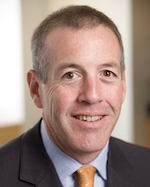
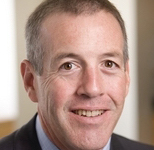
resized and added images for directors

diff --git a/src/data.js b/src/data.js
@@ -26,7 +26,7 @@ const data = {
         },
         {
             "id": 4,
-            "imageUrl": "/img/directors/kathi_westcott.jpg",
+            "imageUrl": "/img/directors/kathi_westcott.png",
             "name": "Kathi Westcott",
             "board_position": "",
             "job": "Senior Counsel, The Pew Charitable Trusts",
@@ -106,7 +106,7 @@ const data = {
         },
         {
             "id": 14,
-            "imageUrl": "/img/directors/jo-ann_wallace.jpg",
+            "imageUrl": "/img/directors/jo-ann_wallace.png",
             "name": "Jo-Ann Wallace",
             "board_position": "",
             "job": "President and CEO, National Legal Aid and Defender Association",

diff --git a/src/components/board/director/Director.js b/src/components/board/director/Director.js
@@ -9,7 +9,10 @@ function Director(props) {
     return(
         <div className="container">
             <h2>{director.name}</h2>
-            <BoardImage/>
+            <BoardImage
+                name={director.name}
+                imageUrl={director.imageUrl}
+            />
             <h4>{director.board_position}</h4>
             <div className="divider"></div>
             <h5>{director.job}</h5>

diff --git a/src/components/board/directors-grid/DirectorsGrid.js b/src/components/board/directors-grid/DirectorsGrid.js
@@ -6,7 +6,6 @@ import {
 import BoardImage from '../BoardImage'
 
 function BoardGrid(props) {
-    // console.log(props)
     let pathname = `/directors/${props.name}`
     return(
         <Link to={pathname}>

diff --git a/src/components/board/BoardImage.js b/src/components/board/BoardImage.js
@@ -1,7 +1,6 @@
 import React from 'react'
 
 function BoardImage(props) {
-    console.log(props)
     const altTag = `Picture of ${props.name}`
 
     return (
